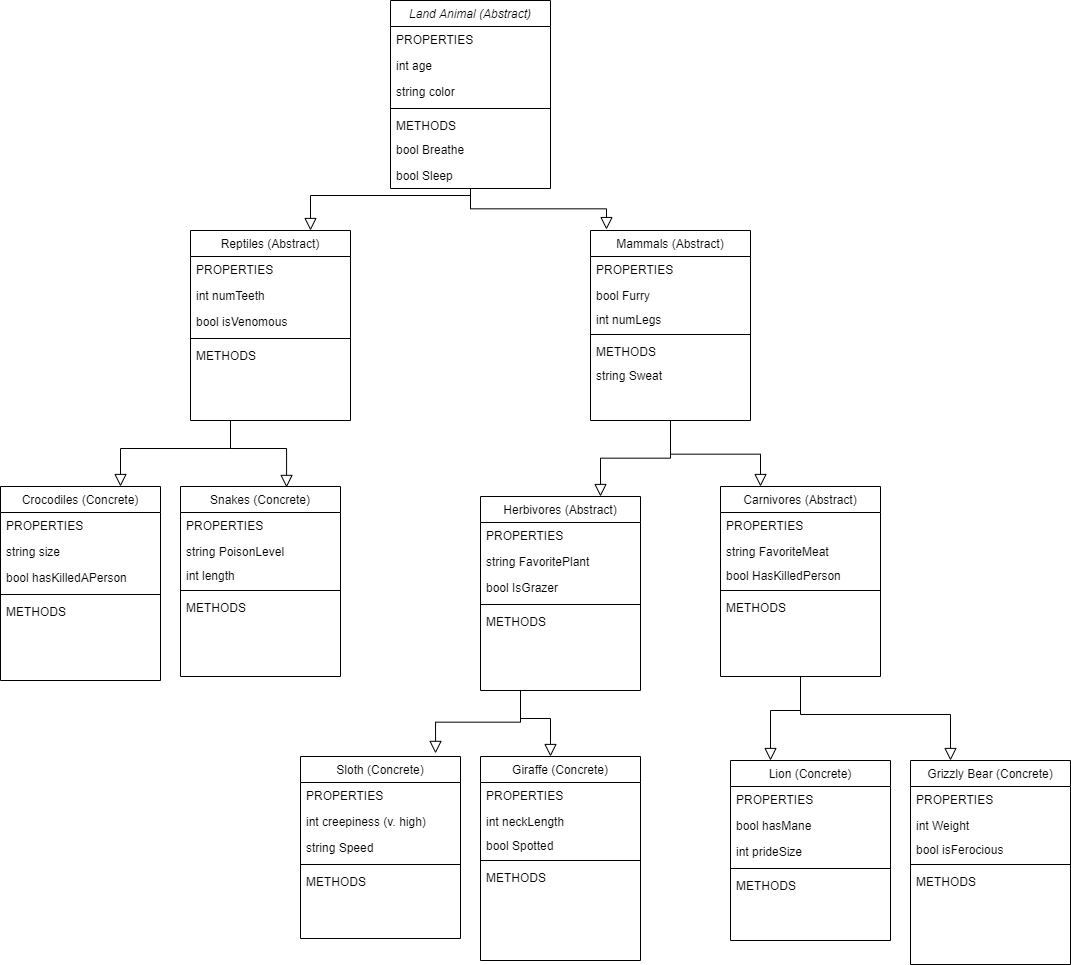
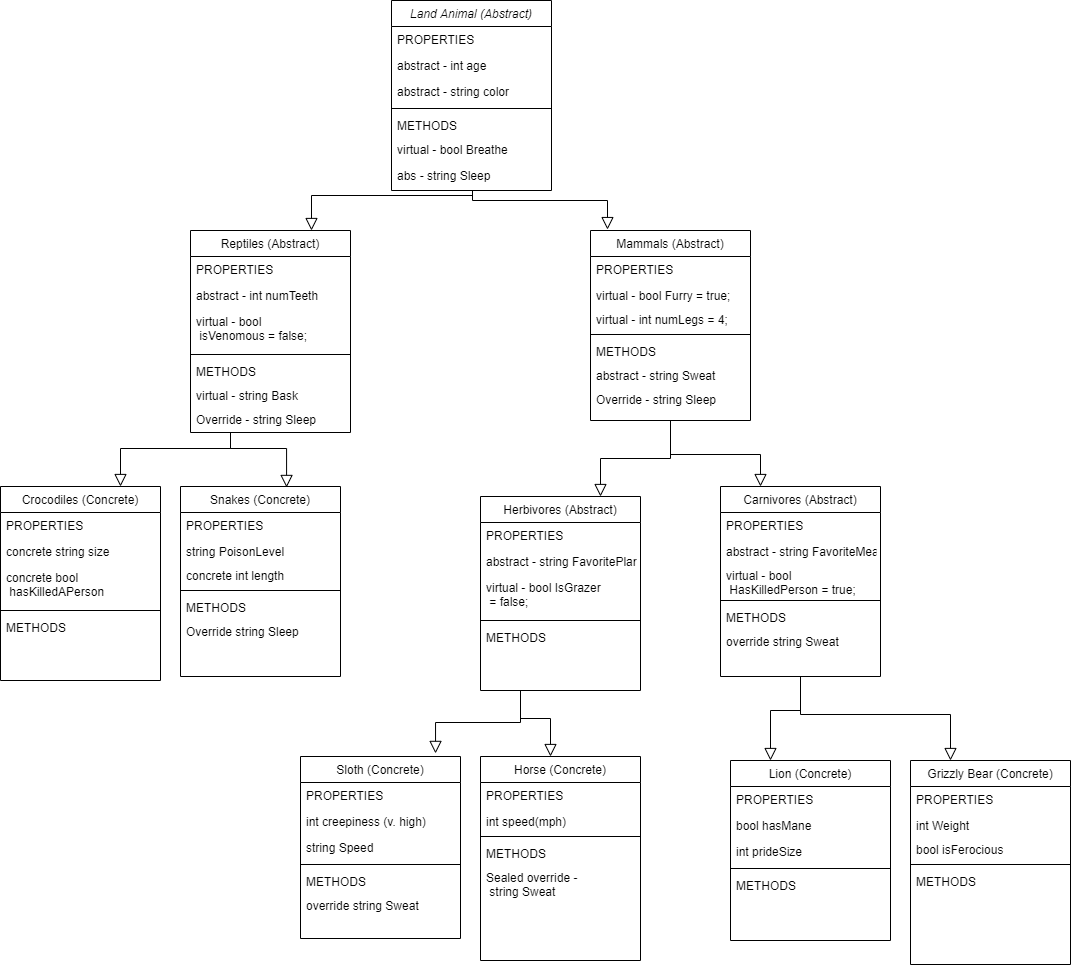
Updated README

diff --git a/README.md b/README.md
@@ -33,10 +33,16 @@ Then select and open ```Lab06-OOPPrinciples.sln```
 
 ### OOP Principles
 #### Inheritance
-- Expresses a Parent/Child relationship between two classes wherein one class can inherit the methods and properties of another. In this code, inheritance is shown by the Concrete Animal classes applying properties from their parent classes as well as using methods defined in the parent classes.
+- Expresses a Parent/Child relationship between two classes wherein one class can inherit the methods and properties of another. In this code, inheritance is shown by the Concrete animal classes applying properties from their parent classes as well as using methods defined in the parent classes.
 
 #### Abstraction
 - The act of taking a real world example and breaking it down into fundamental parts or abstracting it to a more basic form. In the code, this is shown by the concrete examples of animals like giraffes being abstracted to herbivores, which is further abstracted to mammals, and even further to animals. 
+
+#### Encapsulation
+- Encapsulation is the act of "wrapping" data up so that it can only be accessed in specific, predefined ways and it's actual data holds integrity. In the code, we only use public because we needed to write XUnit tests for all the methods, but private methods should be applied only on the concrete level, protected methods would exist in the parents of the concrete animals and internal methods could exist anywhere in the application.
+
+#### Polymorphism
+- Polymorphism is the ability for certain inherited traits to be changed or overridden by deriving classes. In our code, polymorphism is shown in the method sleep which is overridden and changed several times in different levels of inheritance.
 
 ---
 
